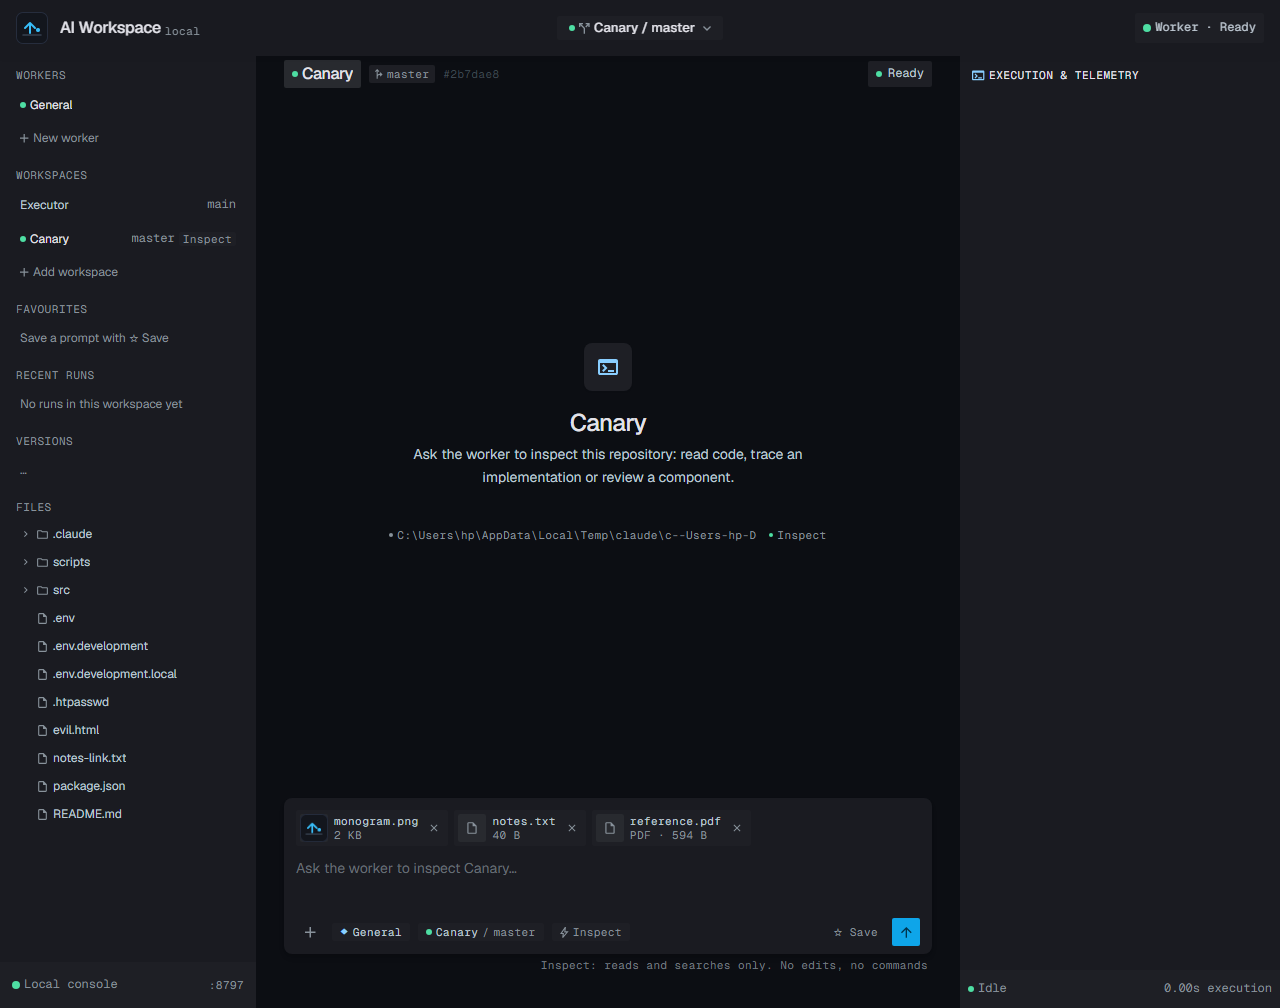
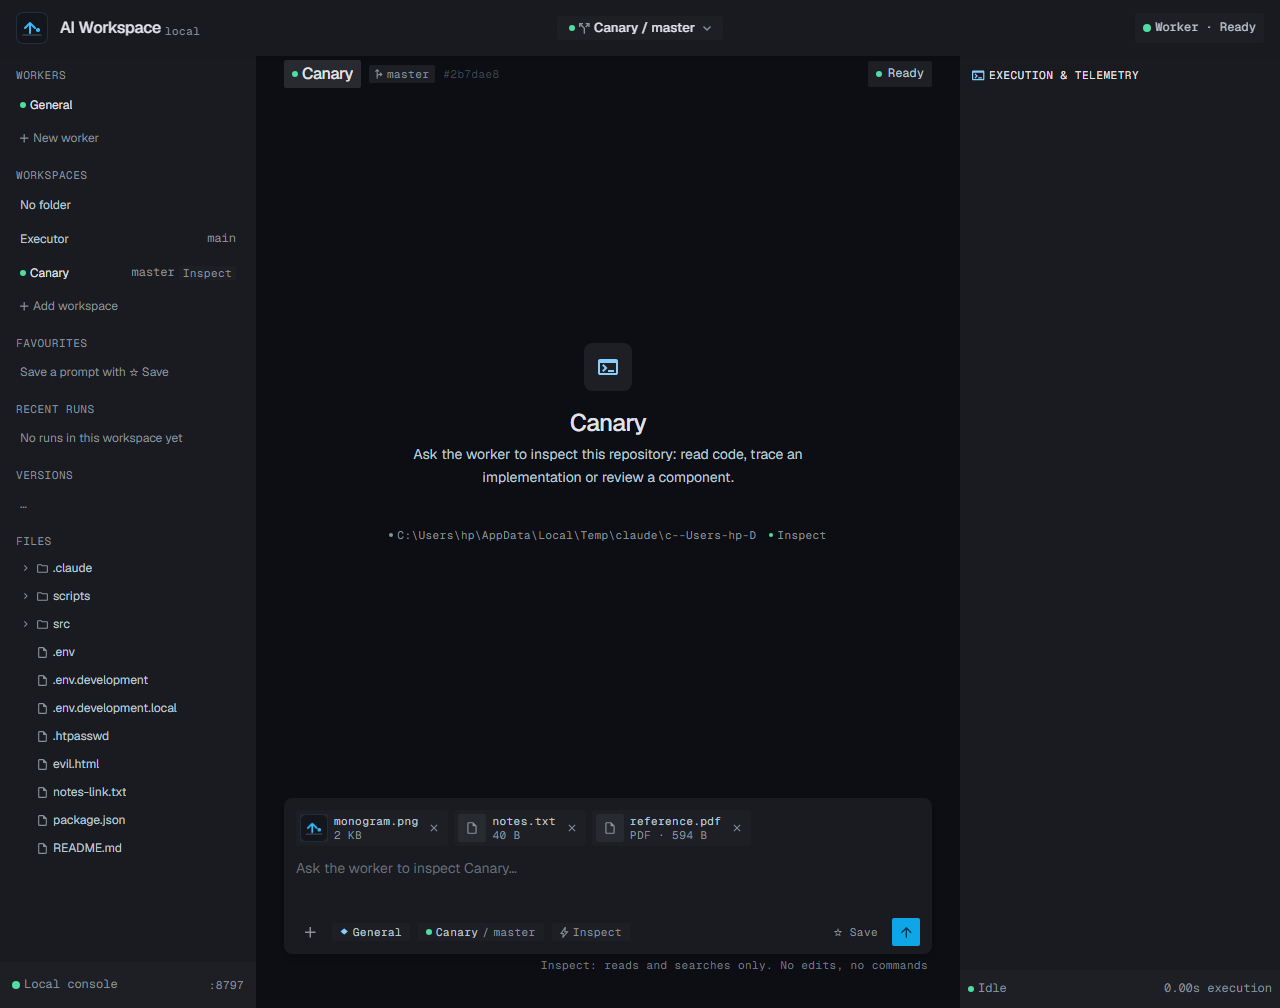
feat(workspace): "No folder" for work without a project folder
A Figma design job has no project folder, yet the Workspace demanded
one ("No workspace" when the list was empty). A built-in "No folder"
workspace is now always first: runs go to a private, console-owned
scratch folder with the Work profile, and the worker's capabilities
still decide its tools; a Figma worker works on the file the plugin
has open. It can't be removed or reordered.

Tests: manage 7/7 and sync 6/6 updated for the fixed row (removing
every folder leaves "No folder" selected; removing it is refused);
workflow 12/12, attach 10/10, versions 14/14, workers 12/12.

Changed region(s): [[0.0, 0.1845, 0.1875, 0.4921], [0.0, 0.5228, 0.125, 0.8611]]

diff --git a/worker-ui/workspace.html b/worker-ui/workspace.html
@@ -558,6 +558,8 @@ function renderWorkspaces() {
       <div style="color:var(--t2)">Remove <strong>${esc(x.name)}</strong> from the list?</div><div class="help">The folder and its files stay on disk.${x.id === "console" ? " Executor is this app's own folder: add it again any time to bring it back with its runs." : ""}</div>
       <div class="err" id="rmErr" role="alert"></div>
       <div class="acts"><button class="btn m11" data-rm-cancel>Cancel</button><button class="btn danger m11" data-rm-ok="${esc(x.id)}">Remove</button></div></div></li>`
+    : x.id === "scratch" ? `<li class="wsi"><button class="row ws" data-ws="scratch" aria-current="${x.id === wsId}" title="No project folder: for Figma work and conversation. The worker gets a private scratch folder.">
+      <span class="grow">${x.id === wsId ? '<span class="dot"></span>' : ""}<span class="ell">${esc(x.name)}</span></span><span class="meta">${x.id === wsId ? `<span class="badge m11">${modeOf(x)}</span>` : ""}</span></button></li>`
     : `<li class="wsi" draggable="true" data-ws-item="${esc(x.id)}"><button class="row ws" data-ws="${esc(x.id)}" aria-current="${x.id === wsId}" title="${esc(x.root)}${x.available ? "" : " (folder not found)"}&#10;Drag, or Alt+↑/↓, to reorder">
       <span class="grow">${x.id === wsId ? '<span class="dot"></span>' : ""}<span class="ell" style="${x.available ? "" : "color:var(--t3)"}">${esc(x.name)}</span></span>
       <span class="meta">${x.branch ? `<span class="m12 ell" style="max-width:80px">${esc(x.branch)}</span>` : ""}${x.id === wsId ? `<span class="badge m11">${modeOf(x)}</span>` : ""}</span></button><button class="x" data-rm="${esc(x.id)}" aria-label="Remove ${esc(x.name)} from the list">${svgIcon("close", 12, 12)}</button></li>`).join("") || '<li class="empty">No workspaces. Add one to start.</li>';
@@ -568,8 +570,8 @@ function renderWorkspaces() {
   $("cHash").hidden = !w.commit; $("cHash").textContent = w.commit ? `#${w.commit}` : "";
   $("bName").textContent = w.name; $("bBr").textContent = w.branch || ""; $("bSl").hidden = !w.branch;
   $("mName").textContent = modeOf(w);
-  $("footR").textContent = w.profile === "inspect" ? "Inspect: reads and searches only. No edits, no commands" : "Work: can edit files and run commands in this folder";
-  $("input").placeholder = runId ? "Reply to the worker…" : (w.profile === "inspect" ? `Ask the worker to inspect ${w.name}…` : `Ask the worker to inspect or operate on ${w.name}…`);
+  $("footR").textContent = w.id === "scratch" ? "No folder: works in Figma and in chat; scratch files stay private" : w.profile === "inspect" ? "Inspect: reads and searches only. No edits, no commands" : "Work: can edit files and run commands in this folder";
+  $("input").placeholder = runId ? "Reply to the worker…" : w.id === "scratch" ? "Message the worker…" : (w.profile === "inspect" ? `Ask the worker to inspect ${w.name}…` : `Ask the worker to inspect or operate on ${w.name}…`);
 }
 function selectWorkspace(id, { newChat = true } = {}) {
   wsId = id; store.set("ws", id);
@@ -621,7 +623,7 @@ $("wsList").addEventListener("drop", (e) => {
   const after = li.classList.contains("drop-after"), target = li.dataset.wsItem;
   clearDrop();
   if (target === dragId) return;
-  const ids = WS.map((w) => w.id).filter((i) => i !== dragId);
+  const ids = WS.map((w) => w.id).filter((i) => i !== dragId && i !== "scratch");
   ids.splice(ids.indexOf(target) + (after ? 1 : 0), 0, dragId);
   saveOrder(ids);
 });
@@ -629,7 +631,8 @@ $("wsList").addEventListener("dragend", () => { clearDrop(); $("wsList").querySe
 $("wsList").addEventListener("keydown", (e) => {
   const b = e.target.closest("[data-ws]"); if (!b || !e.altKey || !["ArrowUp", "ArrowDown"].includes(e.key)) return;
   e.preventDefault();
-  const ids = WS.map((w) => w.id), i = ids.indexOf(b.dataset.ws), j = i + (e.key === "ArrowUp" ? -1 : 1);
+  if (b.dataset.ws === "scratch") return;
+  const ids = WS.map((w) => w.id).filter((x) => x !== "scratch"), i = ids.indexOf(b.dataset.ws), j = i + (e.key === "ArrowUp" ? -1 : 1);
   if (j < 0 || j >= ids.length) return;
   [ids[i], ids[j]] = [ids[j], ids[i]];
   saveOrder(ids, b.dataset.ws);
@@ -893,7 +896,7 @@ function renderVersions() {
   if (!wsId) { ul.innerHTML = ""; return; }
   if (!g) { ul.innerHTML = '<li class="empty">…</li>'; return; }
   if (g.error) { ul.innerHTML = `<li class="empty">${esc(g.error)}</li>`; return; }
-  if (!g.repo) { ul.innerHTML = '<li class="empty">Not a Git repository</li>'; return; }
+  if (!g.repo) { ul.innerHTML = `<li class="empty">${wsId === "scratch" ? "No project folder" : "Not a Git repository"}</li>`; return; }
   const cur = verOpen?.rev;
   const wc = `<li><button class="row" data-rev="WORKTREE" aria-current="${cur === "WORKTREE"}" title="Uncommitted changes in this folder">
       <span class="grow"><span class="dot ${g.changeCount ? "blue" : ""}"></span><span class="ell">Working copy</span></span>
@@ -1117,8 +1120,8 @@ function renderCanvas() {
   if (!runId) {
     const k = wk();
     c.innerHTML = `<div class="emptyst"><div class="motif">${svgIcon("terminalLg", 20, 16)}</div><h1>${esc(k ? k.name : w.name)}</h1>
-      <p>${k ? `${esc(k.mission || k.specialization || "")} ${k.mission ? "" : ""}<br><span style="color:var(--t3)">in ${esc(w.name)}</span>` : w.profile === "inspect" ? "Ask the worker to inspect this repository: read code, trace an implementation or review a component." : "Ask the worker to inspect your repository, analyze an implementation, debug an issue, or test components."}</p>
-      <div class="tagline m11"><span title="${esc(w.root)}"><span class="dot grey"></span><span class="ell" style="max-width:360px">${esc(w.root)}</span></span><span><span class="dot"></span>${modeOf(w)}</span>${(k?.status || []).map((r) => `<span title="${esc(r.ok ? "" : r.how)}"><span class="dot ${r.ok ? "" : "red"}"></span>${esc(r.label)}: ${esc(r.state)}</span>`).join("")}</div></div>`;
+      <p>${k ? `${esc(k.mission || k.specialization || "")}${w.id === "scratch" ? "" : `<br><span style="color:var(--t3)">in ${esc(w.name)}</span>`}` : w.id === "scratch" ? "Chat, or work in Figma, without a project folder." : w.profile === "inspect" ? "Ask the worker to inspect this repository: read code, trace an implementation or review a component." : "Ask the worker to inspect your repository, analyze an implementation, debug an issue, or test components."}</p>
+      <div class="tagline m11"><span title="${esc(w.root)}"><span class="dot grey"></span><span class="ell" style="max-width:360px">${w.id === "scratch" ? "No project folder" : esc(w.root)}</span></span><span><span class="dot"></span>${modeOf(w)}</span>${(k?.status || []).map((r) => `<span title="${esc(r.ok ? "" : r.how)}"><span class="dot ${r.ok ? "" : "red"}"></span>${esc(r.label)}: ${esc(r.state)}</span>`).join("")}</div></div>`;
     return;
   }
   const atEnd = c.scrollHeight - c.scrollTop - c.clientHeight < 80;

diff --git a/bench/workspace-ui/README.md b/bench/workspace-ui/README.md
@@ -290,3 +290,20 @@ The definition lives in `workers/senior-uiux-design-engineer.json`. It's created
 **Note:** an earlier version of step 2 sent the worker a redesign request ("Redesign the onboarding screen…") while a real Figma file, "trekking hiking", was open.
 - **What it did:** it used only read tools, found no onboarding screen, changed nothing and said so.
 - **The fix:** the step is now an explicitly read-only access check.
+
+## "No folder" (2026-10-06)
+
+**The problem:** a Figma design job has no project folder, yet the Workspace demanded one. With every folder removed it showed "No workspace", and nothing could run.
+
+**The fix:** a built-in **No folder** workspace is now always first in the list. It can't be removed or dragged.
+- **Where it runs:** in a private, console-owned scratch folder (`<data>/scratch`, gitignored), with the Work profile. The worker's own capabilities still decide its tools.
+- **What the work targets:** a Figma worker works on whatever file the Figma plugin has open.
+- **The page:** says "No project folder", and Versions says the same.
+
+**Tests updated:**
+- `manage-test.mjs` (7/7) ignores the fixed row when checking order.
+- `sync-test.mjs` (6/6): with every folder removed, "No folder" stays selected, has no remove button, and the API refuses to remove it (400). A tab sitting on "No folder" stays there when a folder comes back.
+
+The Senior UI/UX Design Engineer in "No folder" gets every capability, including Figma edit.
+
+On the same build: workflow 12/12, attach 10/10, versions 14/14, workers 12/12.

diff --git a/docs/worker-platform.md b/docs/worker-platform.md
@@ -122,3 +122,11 @@ Requirements are generic `{resource, access, need}` entries. A small resource re
 
 - **Capabilities can't override the workspace's security profile.** The request's diagram puts resources under the worker. Here the workspace stays the security boundary, and the worker can only narrow it.
 - **Credentials are per integration on this machine, not per worker.** A worker reaches a credential only through a tool its capabilities load. Per-worker credentials need a credential store that doesn't exist yet. That's documented rather than faked.
+
+## 11. Work without a folder (added 2026-10-06)
+
+Not all work has a project folder. A Figma design job's target is the Figma file the plugin has open.
+
+- **"No folder":** a built-in workspace (`id: scratch`) that's always present.
+- **How runs use it:** they run in a private, console-owned scratch folder with the Work profile, and the worker's capabilities still narrow its tools.
+- **The rule stays the same:** every run has exactly one bound workspace. That's what keeps resume and the file viewer bound to a real folder.
